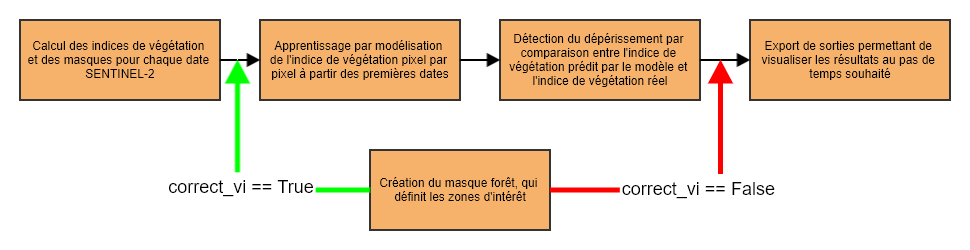
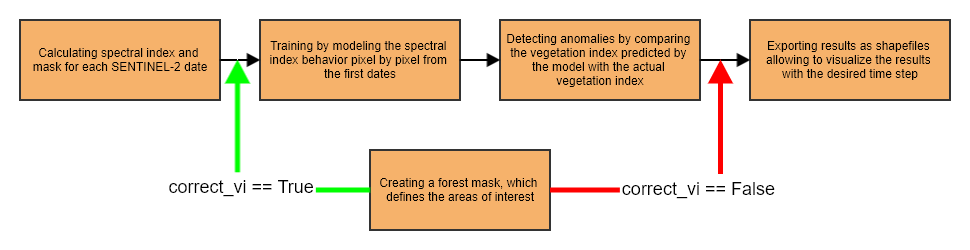
Translating diagrams, updating forest mask step documentation

diff --git a/fordead/steps/step4_compute_forest_mask.py b/fordead/steps/step4_compute_forest_mask.py
@@ -23,7 +23,7 @@ from pathlib import Path
                     help="List of forest types to be kept in the forest mask, corresponds to the CODE_TFV of the BD FORET. Optionnal, only used if forest_mask_source equals 'BDFORET'", show_default=True)
 @click.option("--path_oso",  type=str,
                     help="Path to soil occupation raster, only used if forest_mask_source = 'OSO' ", show_default=True)
-@click.option("--list_code_oso",  type=str, default=[32],
+@click.option("--list_code_oso",  type=str, default=[17],
                     help="List of values used to filter the soil occupation raster. Only used if forest_mask_source = 'OSO'", show_default=True)
 @click.option("--vector_path",  type=str,
                     help="path of shapefile whose polygons will be rasterized as a binary raster with resolution, extent and crs of the raster at path_example_raster. Only used if forest_mask_source = 'vector'", show_default=True)
@@ -72,7 +72,7 @@ def compute_forest_mask(data_directory,
                         bdforet_dirpath = None,
                         
                         path_oso = None,
-                        list_code_oso = [32],
+                        list_code_oso = [17],
                         vector_path = None,
                         path_example_raster = None
                         ):
@@ -122,7 +122,11 @@ def compute_forest_mask(data_directory,
     if tile.paths["ForestMask"].exists():
         print("Forest mask already calculated")
     else:
-        if Path(forest_mask_source).is_file():
+        if forest_mask_source is None:
+            print("No mask used, computing forest mask with every pixel marked as True")
+            forest_mask = raster_full(path_example_raster, fill_value = 1, dtype = bool)
+            
+        elif Path(forest_mask_source).is_file():
             print("Importing " + forest_mask_source)
             forest_mask = clip_xarray(array = import_forest_mask(forest_mask_source), 
                                       extent = get_raster_metadata(path_example_raster)["extent"])
@@ -134,10 +138,6 @@ def compute_forest_mask(data_directory,
         elif  forest_mask_source=="OSO":
             print("Computing forest mask from OSO")
             forest_mask = clip_oso(path_oso, path_example_raster, list_code_oso)
-            
-        elif forest_mask_source==None:
-            print("No mask used, computing forest mask with every pixel marked as True")
-            forest_mask = raster_full(path_example_raster, fill_value = 1, dtype = bool)
             
         elif forest_mask_source == "vector":
             forest_mask = rasterize_vector(vector_path, path_example_raster)

diff --git a/fordead/masking_vi.py b/fordead/masking_vi.py
@@ -88,6 +88,22 @@ def rasterize_bdforet(example_path, dep_path, bdforet_dirpath,
     return forest_mask
 
 def rasterize_vector(vector_path, example_path):
+    """
+    Creates binary raster mask from a vector, such as a shapefile containing polygons
+
+    Parameters
+    ----------
+    vector_path : str
+        Path to a vector containing polygons delimiting the areas of interest
+    example_path : str
+        Path to a raster from which to copy the extent and resolution for the mask
+
+    Returns
+    -------
+    forest_mask : xarray DataArray
+        Boolean DataArray containing True where pixels are in the polygons with the vector file.
+    """
+    
     example_raster = xr.open_rasterio(example_path).squeeze("band")
     example_raster.attrs["crs"]=example_raster.crs.replace("+init=","") #Remove "+init=" which it deprecated
     vector = gp.read_file(vector_path)

diff --git a/docs/user_guides/french/04_compute_forest_mask.md b/docs/user_guides/french/04_compute_forest_mask.md
@@ -4,12 +4,13 @@ Cette étape permet de calculer le masque forêt et ainsi définir les zones d'i
 #### ENTRÉES
 Les paramètres en entrée sont :
 - **data_directory** : Le chemin du dossier de sortie dans lequel sera écrit le masque forêt
-- **forest_mask_source** : Source du masque forêt, peut être "BDFORET" pour utiliser la BD Forêt de l'IGN,  "OSO" pour utiliser la carte d'occupation des sols du CESBIO, le chemin vers un raster binaire de résolution 10m valant 1 sur les pixels d'intérêt, ou None pour ne pas utiliser de masque forêt et étendre la zone d'intérêt à l'ensemble des pixels
+- **forest_mask_source** : Source du masque forêt, peut être "vector" pour utiliser un vecteur contenant des polygones, "BDFORET" pour utiliser la BD Forêt de l'IGN,  "OSO" pour utiliser la carte d'occupation des sols du CESBIO, le chemin vers un raster binaire de résolution 10m valant 1 sur les pixels d'intérêt, ou None pour ne pas utiliser de masque forêt et étendre la zone d'intérêt à l'ensemble des pixels
 - **dep_path** : Chemin d'un shapefile des départements français contenant le code insee dans un champ code_insee, seulement utile si forest_mask_source vaut "BDFORET"
 - **bdforet_dirpath** : Chemin du dossier contenant la BD Forêt de l'IGN avec un dossier par département. Seulement utile si forest_mask_source vaut "BDFORET"
 - **list_forest_type** : Liste des types de peuplements à garder dans le masque forêt, correspond au CODE_TFV de la BD Forêt. Seulement utile si forest_mask_source vaut "BDFORET"
 - **path_oso** : Chemin du raster d'occupation des sols du CESBIO. Seulement utile si forest_mask_source vaut "OSO".
 - **list_code_oso** : Liste des valeurs du raster OSO à conserver dans le masque forêt. Seulement utile si forest_mask_source vaut "OSO".
+- **vector_path** : Chemin du fichier vectoriel dont les polygones seront rasterisés en un raster binaire avec la résolution, l'extent et le système de projection du raster path_example_raster. Utilisé uniquement si forest_mask_source = 'vector'.
 - **path_example_raster** : Chemin d'un raster "example" utilisé pour connaître l'extent, le système de projection, etc... Seulement utile s'il n'y a pas dans le data_directory un fichier TileInfo crée par les étapes précèdentes d'où peuvent être extraites ces informations.
 
 #### SORTIES
@@ -19,14 +20,41 @@ Les sorties de cette quatrième étape, dans le dossier data_directory, sont :
 ## Utilisation
 ### A partir d'un script
 
+#### Depuis un vecteur, par exemple un shapefile
 ```bash
 from fordead.steps.step4_compute_forest_mask import compute_forest_mask
 compute_forest_mask(data_directory, 
-                    forest_mask_source = <forest_mask_source>, 
+                    forest_mask_source = "vector", 
+                    vector_path = <vector_path>)
+```
+#### Depuis un raster binaire
+```bash
+from fordead.steps.step4_compute_forest_mask import compute_forest_mask
+compute_forest_mask(data_directory, 
+                    forest_mask_source = <path of binary raster>)
+```
+
+#### Depuis la BDFORET de l'IGN
+```bash
+from fordead.steps.step4_compute_forest_mask import compute_forest_mask
+compute_forest_mask(data_directory, 
+                    forest_mask_source = "BDFORET", 
                     dep_path = <dep_path>,
                     bdforet_dirpath = <bdforet_dirpath>)
 ```
-
+#### Depuis la carte OSO du CESBIO
+```bash
+from fordead.steps.step4_compute_forest_mask import compute_forest_mask
+compute_forest_mask(data_directory, 
+                    forest_mask_source = "OSO", 
+                    path_oso = <path_oso>,
+                    list_code_oso = [17])
+```
+#### Sans utilisation de masque
+```bash
+from fordead.steps.step4_compute_forest_mask import compute_forest_mask
+compute_forest_mask(data_directory)
+```
 
 ### A partir de la ligne de commande
 
@@ -44,6 +72,19 @@ Voir documentation détaillée sur le [site](https://fordead.gitlab.io/fordead_p
 Les informations relatives aux traitements précédents sont importés (paramètres, chemins des données, dates utilisées...). Si les paramètres utilisés ont été modifiés, l'ensemble des résultats à partir de cette étape sont supprimés. Cette étape peut également être réalisée indépendamment du reste de la chaîne de traitement, en renseignant le paramètre **path_example_raster**, afin d'obtenir un masque forêt binaire. Sinon, le paramètre **path_example_raster** est automatiquement déterminé à partir des résultats des étapes précédentes afin que le masque forêt corresponde à la zone étudiée.
 > **_Fonctions utilisées :_** [TileInfo()](https://fordead.gitlab.io/fordead_package/reference/fordead/ImportData/#tileinfo), méthodes de la classe TileInfo [import_info()](https://fordead.gitlab.io/fordead_package/reference/fordead/ImportData/#import_info), [add_parameters()](https://fordead.gitlab.io/fordead_package/reference/fordead/ImportData/#add_parameters), [delete_dirs()](https://fordead.gitlab.io/fordead_package/reference/fordead/ImportData/#delete_dirs)
 
+### Depuis un vecteur
+- Import d'un vecteur, par exemple un shapefile contenant des polygones
+- Reprojection du vecteur dans le système de projection des données Sentinel-2
+- L'ensemble des polygones sont rasterisés en un raster binaire à la résolution, l'extent et le système de projection de la zone d'étude. Le raster prend la valeur 1 là où les pixels sont à l'intérieur des polygones.
+> **_Fonctions utilisées:_** [rasterize_vector()](https://fordead.gitlab.io/fordead_package/reference/fordead/masking_vi/#rasterize_vector)
+
+### A partir d'un raster binaire
+Cette option est donnée pour les utilisateurs voulant créer leur propre masque par d'autres moyens et l'utiliser dans la chaîne de traitement. Il sera ré-écrit dans le dossier data_directory.
+ - Si forest_mask_source est un chemin vers un fichier existant, ce fichier est importé. Ce fichier doit être un raster binaire avec la valeur 1 là où sont les pixels d'intérêt.
+ - Le fichier est découpé à l'extent de la zone d'étude, ou du fichier au chemin path_example_raster
+ > **_Fonctions utilisées :_** [import_forest_mask()](https://fordead.gitlab.io/fordead_package/reference/fordead/ImportData/#import_forest_mask), [clip_xarray()](https://fordead.gitlab.io/fordead_package/reference/fordead/ImportData/#clip_xarray)
+
+
 ### A partir de la BDFORET de l'IGN
 - Importation de la BDFORET des départements intersectant la zone d'étude
 - Filtre à partir des types de peuplements séléctionnés
@@ -55,11 +96,6 @@ Les informations relatives aux traitements précédents sont importés (paramèt
  - Filtre à partir de la liste **list_code_oso** pour obtenir un raster valant True sur les pixels dont la valeur dans la carte OSO est dans la liste **list_code_oso**
  > **_Fonctions utilisées :_** [clip_oso()](https://fordead.gitlab.io/fordead_package/reference/fordead/masking_vi/#clip_oso)
 
-### A partir d'un raster binaire
-Cette option est donnée pour les utilisateurs voulant créer leur propre masque par d'autres moyens et l'utiliser dans la chaîne de traitement. Il sera ré-écrit dans le dossier data_directory.
- - Si forest_mask_source est un chemin vers un fichier existant, ce fichier est importé. Ce fichier doit être un raster binaire avec la valeur 1 là où sont les pixels d'intérêt.
- - Le fichier est découpé à l'extent de la zone d'étude, ou du fichier au chemin path_example_raster
- > **_Fonctions utilisées :_** [import_forest_mask()](https://fordead.gitlab.io/fordead_package/reference/fordead/ImportData/#import_forest_mask), [clip_xarray()](https://fordead.gitlab.io/fordead_package/reference/fordead/ImportData/#clip_xarray)
 
 ### Pas d'utilisation de masque
  Si il est choisi de ne pas utiliser de masque, le masque forêt crée est rempli entièrement avec la valeur True et correspond à la dimension, résolutione et système de projection du raster au chemin **path_example_raster**

diff --git a/docs/user_guides/english/04_compute_forest_mask.md b/docs/user_guides/english/04_compute_forest_mask.md
@@ -10,6 +10,7 @@ The input parameters are :
 - **list_forest_type** : List of forest stand types to be kept in the forest mask, corresponds to the CODE_TFV of the BD Foret. Only useful if forest_mask_source is "BDFORET".
 - **path_oso** : Path of the CESBIO's land use raster. Only useful if forest_mask_source is "OSO".
 - **list_code_oso**: List of OSO raster values to keep in the forest mask. Only useful if forest_mask_source is "OSO".
+- **vector_path** : Path of shapefile whose polygons will be rasterized as a binary raster with resolution, extent and crs of the raster at path_example_raster. Only used if forest_mask_source = 'vector'.
 - **path_example_raster** : Path of an "example" raster used to know the extent, the projection system, etc... Only useful if there is no TileInfo file in the data_directory created by the previous steps from which this information can be extracted.
 
 #### OUTPUTS
@@ -19,14 +20,41 @@ The outputs of this fourth step, in the data_directory folder, are :
 ## How to use
 ### From a script
 
+#### Using a vector, such as a shapefile
 ```bash
 from fordead.steps.step4_compute_forest_mask import compute_forest_mask
 compute_forest_mask(data_directory, 
-                    forest_mask_source = <forest_mask_source>, 
+                    forest_mask_source = "vector", 
+                    vector_path = <vector_path>)
+```
+#### Using a binary raster
+```bash
+from fordead.steps.step4_compute_forest_mask import compute_forest_mask
+compute_forest_mask(data_directory, 
+                    forest_mask_source = <path of binary raster>)
+```
+
+#### Using the IGN BDFORET
+```bash
+from fordead.steps.step4_compute_forest_mask import compute_forest_mask
+compute_forest_mask(data_directory, 
+                    forest_mask_source = "BDFORET", 
                     dep_path = <dep_path>,
                     bdforet_dirpath = <bdforet_dirpath>)
 ```
-
+#### Using the CESBIO OSO map
+```bash
+from fordead.steps.step4_compute_forest_mask import compute_forest_mask
+compute_forest_mask(data_directory, 
+                    forest_mask_source = "OSO", 
+                    path_oso = <path_oso>,
+                    list_code_oso = [17])
+```
+#### Using no mask
+```bash
+from fordead.steps.step4_compute_forest_mask import compute_forest_mask
+compute_forest_mask(data_directory)
+```
 
 ### From the command line
 
@@ -44,6 +72,18 @@ See detailed documentation on the [site](https://fordead.gitlab.io/fordead_packa
 The information about the previous steps is imported (parameters, data paths, used dates...). If the parameters used have been modified, all the results from this step onwards are deleted. This step can also be performed independently from the rest of the processing chain, by filling in the **path_example_raster** parameter, in order to obtain a binary forest mask. Otherwise, the **path_example_raster** parameter is automatically extracted from the results of the previous steps so that the forest mask corresponds to the studied area.
 > **_Functions used:_** [TileInfo()](https://fordead.gitlab.io/fordead_package/reference/fordead/ImportData/#tileinfo), TileInfo class methods [import_info()](https://fordead.gitlab.io/fordead_package/reference/fordead/ImportData/#import_info), [add_parameters()](https://fordead.gitlab.io/fordead_package/reference/fordead/ImportData/#add_parameters), [delete_dirs()](https://fordead.gitlab.io/fordead_package/reference/fordead/ImportData/#delete_dirs)
 
+### From a vector
+- Import of the vector file, such as a shapefile
+- Reprojecting the vector in the same system of projection as the Sentinel-2 data
+- All polygons are rasterized as a binary raster with resolution, extent and system of projection of the area of study. The raster takes the value 1 on the pixels inside the polygons.
+> **_Functions used:_** [rasterize_vector()](https://fordead.gitlab.io/fordead_package/reference/fordead/masking_vi/#rasterize_vector)
+
+### From a binary raster
+This option is given for users who want to create their own mask by other means and use it in the processing chain. A copy will be written in the data_directory folder.
+ - If forest_mask_source is a path to an existing file, this file is imported. It must be a binary raster file with the value 1 where there are pixels of interest
+ - The file is clipped to the extent of the study area, or to the path_example_raster file
+> **_Functions used:_** [import_forest_mask()](https://fordead.gitlab.io/fordead_package/reference/fordead/ImportData/#import_forest_mask), [clip_xarray()](https://fordead.gitlab.io/fordead_package/reference/fordead/ImportData/#clip_xarray)
+
 ### From the IGN BDFORET
 - Import of the BDFORET shapefiles of the departments intersecting the study area
 - Filtering from the selected forest stand types
@@ -54,12 +94,6 @@ The information about the previous steps is imported (parameters, data paths, us
  - Import of the [oso map](http://osr-cesbio.ups-tlse.fr/~oso/) and cropping from the raster at path **path_example_raster**
  - Filter from the **list_code_oso** list so the resulting raster has the value True on the pixels whose value in the OSO map is in the **list_code_oso** list, and False elsewhere.
 > **_Functions used:_** [clip_oso()](https://fordead.gitlab.io/fordead_package/reference/fordead/masking_vi/#clip_oso)
-
-### From a binary raster
-This option is given for users who want to create their own mask by other means and use it in the processing chain. A copy will be written in the data_directory folder.
- - If forest_mask_source is a path to an existing file, this file is imported. It must be a binary raster file with the value 1 where there are pixels of interest
- - The file is clipped to the extent of the study area, or to the path_example_raster file
-> **_Functions used:_** [import_forest_mask()](https://fordead.gitlab.io/fordead_package/reference/fordead/ImportData/#import_forest_mask), [clip_xarray()](https://fordead.gitlab.io/fordead_package/reference/fordead/ImportData/#clip_xarray)
 
 ### No mask
 If the user chooses not to use a mask, the resulting forest mask is filled entirely with the value True and corresponds to the dimension, resolution and projection system of the raster at the **path_example_raster** path

diff --git a/README.md b/README.md
@@ -17,7 +17,7 @@ pip install .
 
 ## Forest disturbance detection
 
-![diagramme_general](docs/user_guides/Diagrams/Diagramme_general.png "diagramme_general")
+![diagramme_general_english](docs/user_guides/english/Diagrams/Diagramme_general.png "diagramme_general_english")
 
 The detection of Forest disturbance is done in five steps.
 - [The calculation of vegetation indices and masks for each SENTINEL-2 date](https://fordead.gitlab.io/fordead_package/docs/user_guides/01_compute_masked_vegetationindex/)
@@ -49,7 +49,7 @@ pip install .
 
 ## Utilisation pour la détection de déperissement
 
-![diagramme_general](docs/user_guides/Diagrams/Diagramme_general.png "diagramme_general")
+![diagramme_general_french](docs/user_guides/french/Diagrams/Diagramme_general.png "diagramme_general_french")
 
 La détection du déperissement se fait en cinq étapes.
 - [Le calcul des indices de végétation et des masques pour chaque date SENTINEL-2](https://fordead.gitlab.io/fordead_package/docs/user_guides/01_compute_masked_vegetationindex/)
